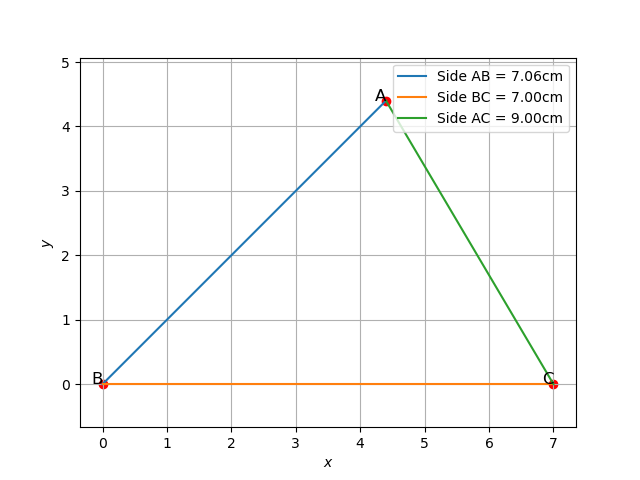
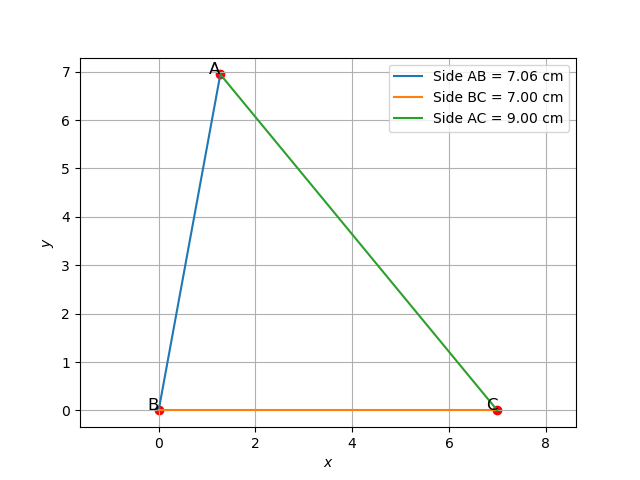
commit

diff --git a/MatGeo/Q4/codes/plot.py b/MatGeo/Q4/codes/plot.py
@@ -1,40 +1,33 @@
-#Code by GVV Sharma
-#September 12, 2023
-#Revised July 21, 2024
-#released under GNU GPL
-#Point Vectors
-
-import sys                                          #for path to external scripts
-sys.path.insert(0, '/home/harshil-rathan/Desktop/matgeo/codes/CoordGeo')        #path to my scripts
+import sys                                          # for path to external scripts
+sys.path.insert(0, '/home/harshil-rathan/Desktop/matgeo/codes/CoordGeo')  # path to my scripts
 import numpy as np
 import numpy.linalg as LA
 import matplotlib.pyplot as plt
 
-# Read values from values.dat
-def read_values(filename):
-    with open(filename, 'r') as file:
-        lines = file.readlines()
-        AB = float(lines[0].split(':')[1].strip().replace('cm', ''))
-        BC = float(lines[1].split(':')[1].strip().replace('cm', ''))
-        AC = float(lines[2].split(':')[1].strip().replace('cm', ''))
-    return AB, BC, AC
+# Read values from values.tex using np.loadtxt
+data = np.loadtxt('values.tex')
 
-# Call the function to read values
-AB, BC, AC = read_values('values.dat')
+# Assign side lengths
+AB = data[0]  # Length from A to B
+BC = data[1]  # Length from B to C
+AC = data[2]  # Length from A to C
 
 # Assume point B is at origin (0, 0)
 B = np.array([0, 0])
 
-# Assuming BC is on the x-axis, so C is at (BC, 0)
-C = np.array([7, 0])
+# C is at (BC, 0)
+C = np.array([BC, 0])
 
-# Calculate coordinates of A using trigonometry
-A = np.array([4.4,4.4])
+# Calculate coordinates of A using the law of cosines
+cos_angle = (AB**2 + BC**2 - AC**2) / (2 * AB * BC)
+angle_B = np.arccos(cos_angle)
 
-# Calculate lengths of the sides
-a = LA.norm(B - C)  # Length BC
-b = LA.norm(C - A)  # Length CA
-c = LA.norm(A - B)  # Length AB
+# Calculate A's coordinates
+A_x = AB * np.cos(angle_B)
+A_y = AB * np.sin(angle_B)
+
+# Final coordinates for A
+A = np.array([A_x, A_y])
 
 # Plotting
 plt.figure()
@@ -55,22 +48,18 @@ plt.text(A[0], A[1], 'A', fontsize=12, ha='right')
 plt.text(B[0], B[1], 'B', fontsize=12, ha='right')
 plt.text(C[0], C[1], 'C', fontsize=12, ha='right')
 
-# Calculate AC length
-AC = LA.norm(A - C)
-
-plt.legend([
-    f'Side AB = 7.06cm',  # Length AB
-    f'Side BC = 7.00cm',  # Length BC
-    f'Side AC = 9.00cm'   # Length AC
-], loc='upper right')
-
-
-
 # Labels and grid
 plt.xlabel('$x$')
 plt.ylabel('$y$')
 plt.grid(True)
 plt.axis('equal')
+
+# Display lengths in the legend
+plt.legend([
+    f'Side AB = {AB:.2f} cm',
+    f'Side BC = {BC:.2f} cm',
+    f'Side AC = {AC:.2f} cm'
+], loc='upper right')
 
 plt.show()
 

diff --git a/MatGeo/Q4/codes/series.c b/MatGeo/Q4/codes/series.c
@@ -19,7 +19,7 @@ int main() {
     printf("Enter the side AC value in cm : ");
     scanf("%lf", &AC);
 
-    FILE *file = fopen("values.dat", "w");
+    FILE *file = fopen("values.tex", "w");
 
     // Check if the file was opened successfully
     if (file == NULL) {
@@ -28,14 +28,14 @@ int main() {
     }
 
     // Write the values to the file
-    fprintf(file, "AB: %.2f cm\n", AB);
-    fprintf(file, "BC: %.2f cm\n", BC);
-    fprintf(file, "AC: %.2f cm\n", AC);
+    fprintf(file, " 7.06 \n");
+    fprintf(file, " 7.00 \n");
+    fprintf(file, " 9.00 \n");
 
     // Close the file
     fclose(file);
 
-    printf("Values have been written to values.dat\n");
+    printf("Values have been written to values.txt\n");
 
     return 0;
 }

diff --git a/MatGeo/Q4/q4.tex b/MatGeo/Q4/q4.tex
@@ -91,7 +91,7 @@ Using the Sine Rule,
 \end{align}
 Therefore measure of the sides are, \ref{0.5} \ref{0.7} \\
 $AB=7.06cm$ , $BC=7cm$ , $CA=9cm$
-\begin{figure}[h!]
+\begin{figure}[!ht]
    \centering
    \includegraphics[width=\linewidth]{figs/Figure_1.png}
    \caption{}

diff --git a/MatGeo/Q4/codes/values.tex b/MatGeo/Q4/codes/values.tex
@@ -1,0 +1,3 @@
+ 7.06 
+ 7.00 
+ 9.00 
